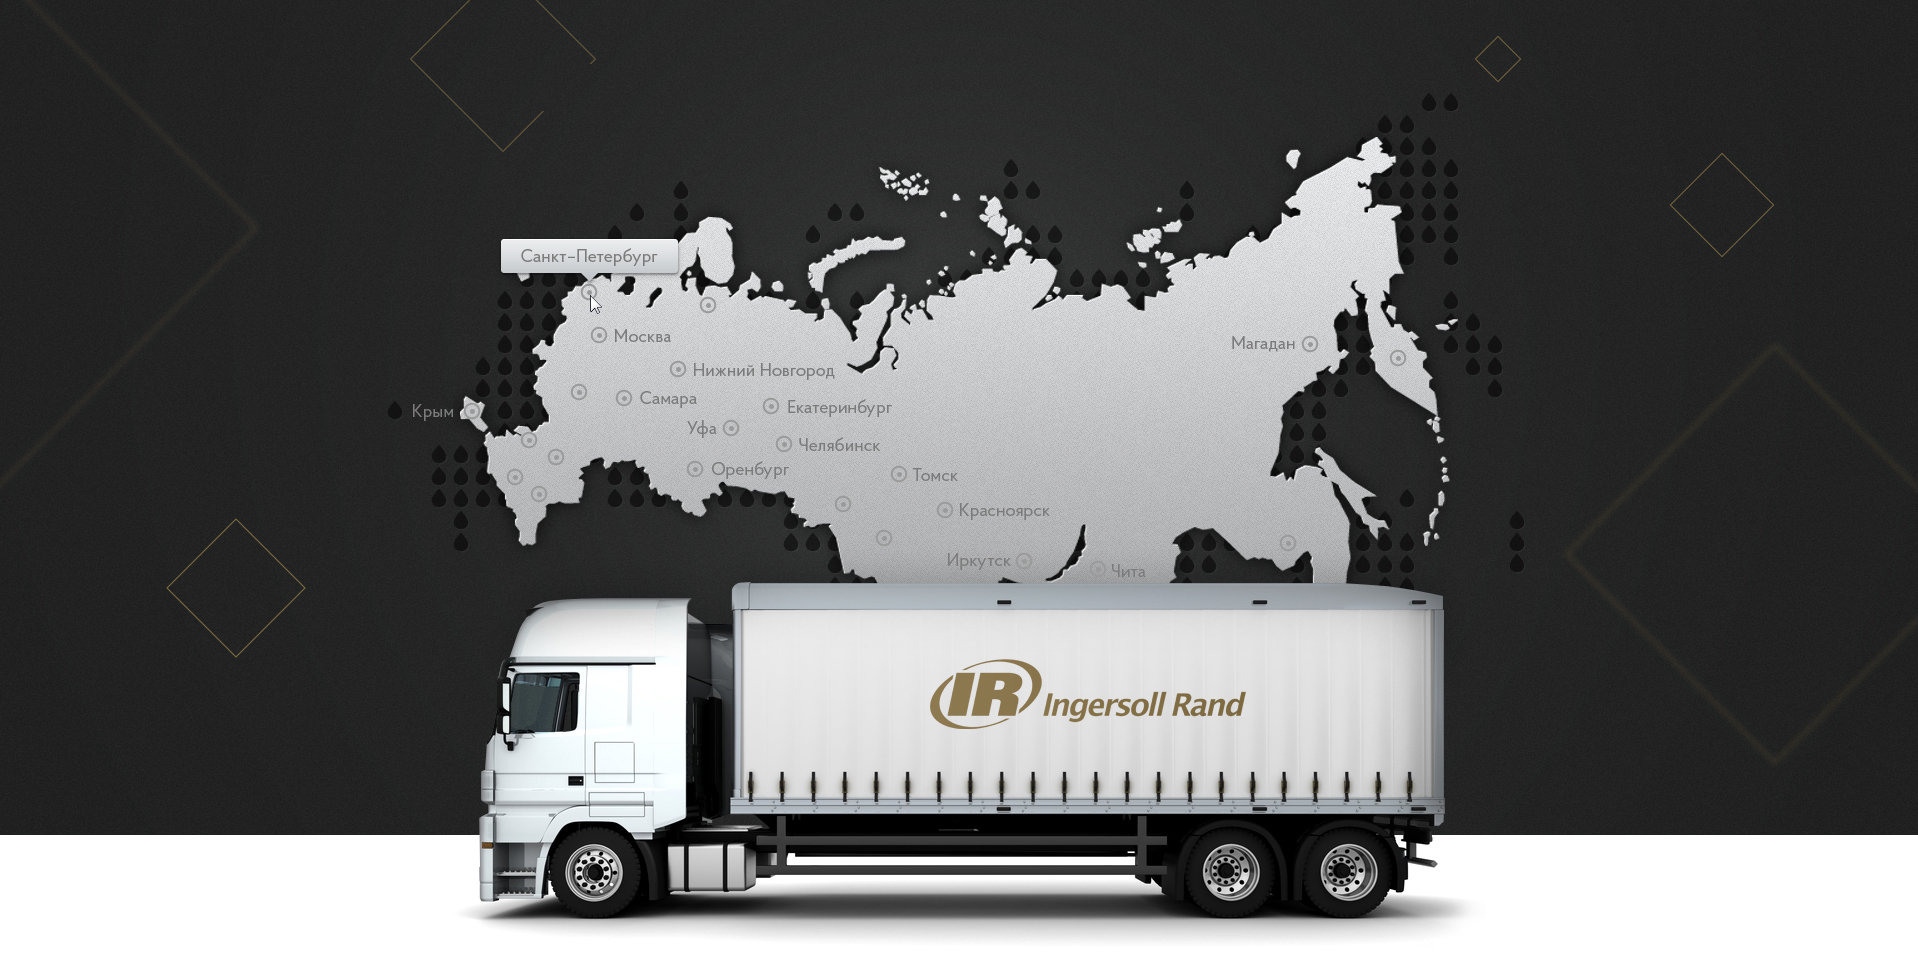
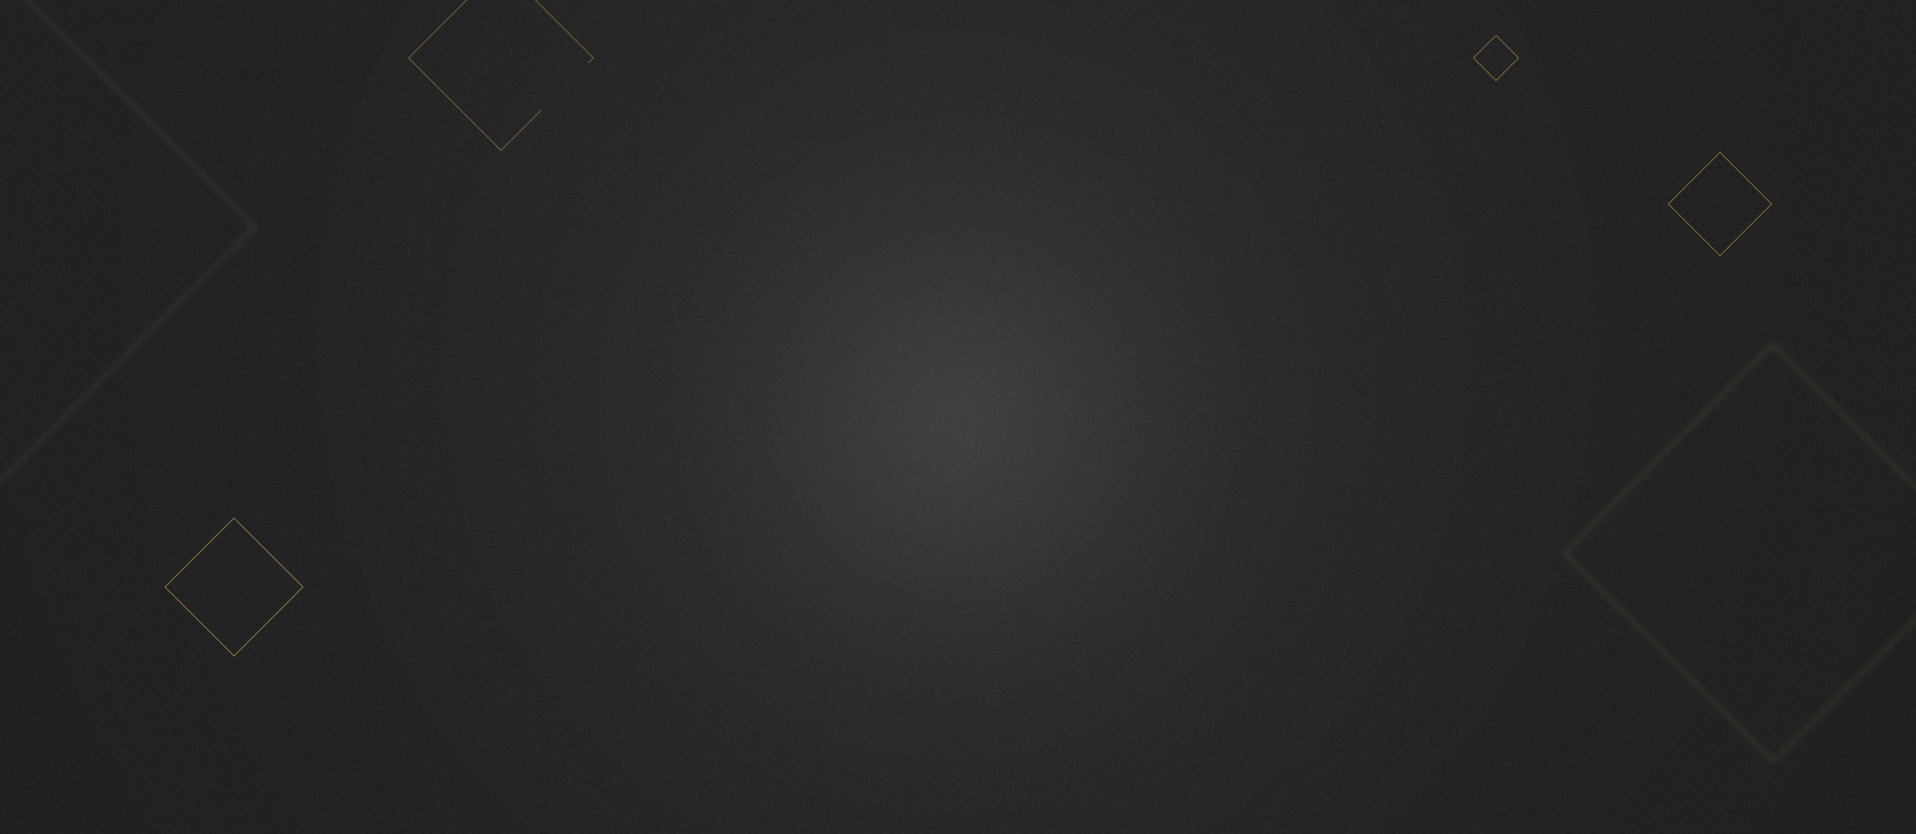
screen 11

diff --git a/css/styles.css b/css/styles.css
@@ -1002,7 +1002,7 @@ body {
 
 .screen-10 .container {
 	max-width: 980px;
-	padding: 55px 0 75px 0;
+	padding: 55px 0 65px 0;
 	box-sizing: border-box;
 	text-align: center;
 }
@@ -1032,6 +1032,40 @@ body {
 
 .screen-11 {
 	background: url("../img/bg-img_screen11.jpg") no-repeat;
+}
+
+.screen-11 .container {
+	max-width: 980px;
+	min-height: 960px;
+	padding: 60px 0 0 0;
+	box-sizing: border-box;
+	text-align: center;
+
+}
+
+.screen-11 h2 {
+	font-size: 52px;
+	line-height: 60px;
+	font-weight: normal;
+	color: white;
+}
+
+.delivery-block {
+	position: relative;
+}
+
+.screen-11 img {
+	position: absolute;
+}
+
+.screen-11 img:nth-child(1) {
+	right: -80px;
+	top: -30px;
+}
+
+.screen-11 img:nth-child(2) {
+	top: 418px;
+	right: -35px;
 }
 
 .footer {

diff --git a/index.html b/index.html
@@ -493,10 +493,15 @@
 						</div>
 					</div>
 			</div>
-
 		</div>
 		<div class="screen-11">
-			<div class="container"></div>
+			<div class="container">
+				<h2>Срочная доставка в любой регион РФ</h2>
+				<div class="delivery-block">
+					<img src="img/img_map.png" alt="Delivery map">
+					<img src="img/img_truck.png" alt="Delivery truck">
+				</div>
+			</div>
 		</div>
 		<div class="screen-12">
 			<div class="container"></div>
